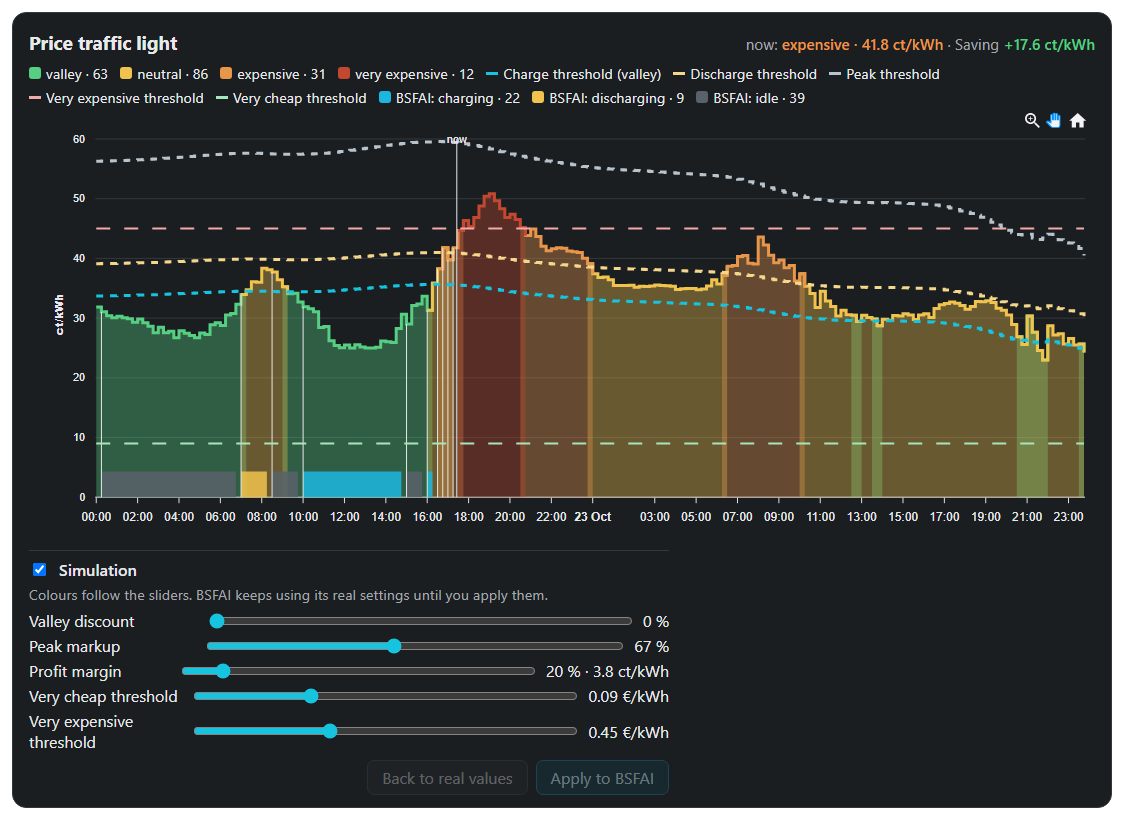
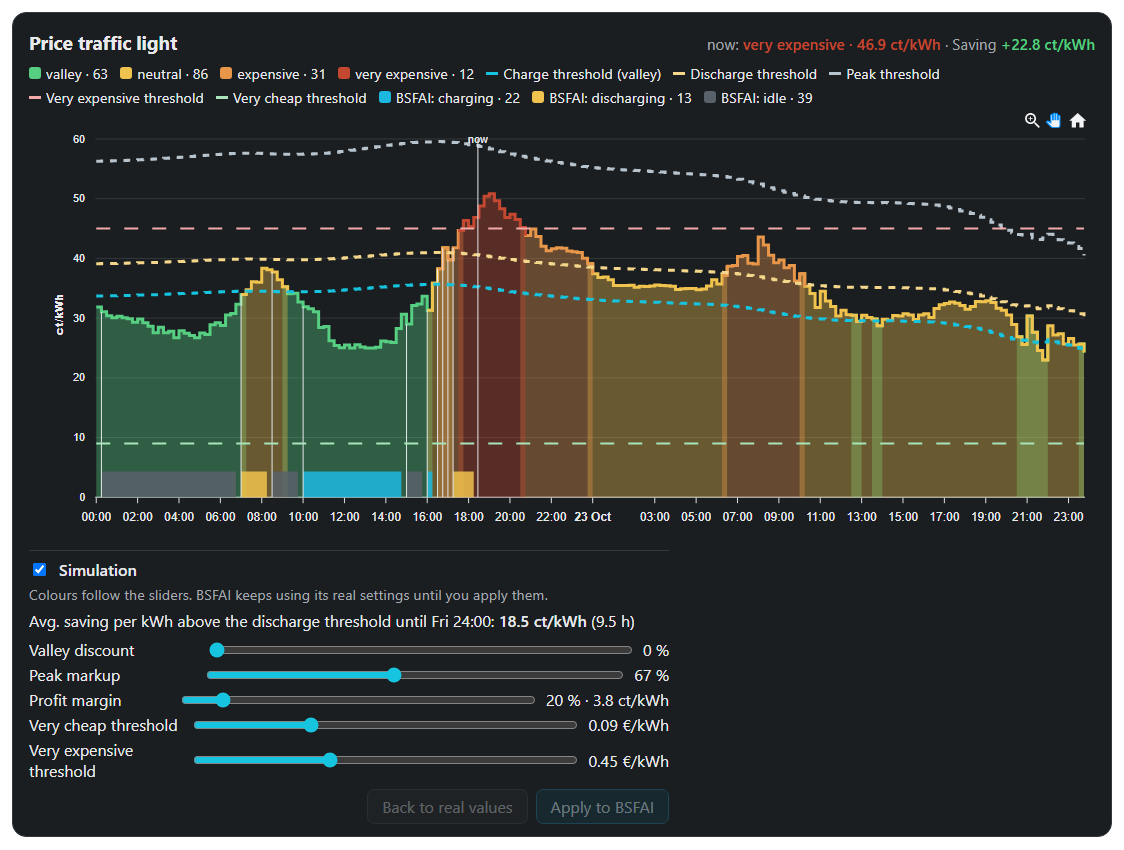
0.1.9: Ø Ersparnis je kWh im Simulator, README sachlicher
Im Simulator steht die Ø Ersparnis je kWh ueber der Entladeschwelle bis zum
Ende der Preisvorschau (mit Stunden), bei verstellten Schiebern auch mit den
Schieberwerten. README: Abschnitt dazu; die Erklaerung der Gewinnmarge ist
jetzt neutral formuliert (wie BSFAI sie anwendet, ohne Wertung des Namens).

diff --git a/custom_components/smartflow_preisampel/www/smartflow-preisampel-card.js b/custom_components/smartflow_preisampel/www/smartflow-preisampel-card.js
@@ -9,7 +9,7 @@
  * Simulator; ohne Simulation zeigt die Karte die fertig gerechnete Leiter.
  */
 
-const VERSION = "0.1.9-test";
+const VERSION = "0.1.9";
 const CARD = "smartflow-preisampel-card";
 const EDITOR = "smartflow-preisampel-card-editor";
 

diff --git a/README.md b/README.md
@@ -31,6 +31,7 @@ Zwei Stile, im Karten-Editor per Schalter umschaltbar:
 - **Schwellen** als Linien: Ladeschwelle (Tal), Entladeschwelle, Peak-Schwelle sowie die festen Sehr-billig- und Sehr-teuer-Schwellen
 - **Verlauf**: ein Balken darunter zeigt, was BSFAI tatsächlich getan hat (lädt · entlädt · bereit), der Tooltip zusätzlich den Ladestand
 - **Simulator** mit fünf Schiebern: Talpreis-Abschlag, Peakpreis-Aufschlag, Gewinnmarge, Sehr-billig- und Sehr-teuer-Schwelle.
+  Darüber die **Ø Ersparnis je kWh** über der Entladeschwelle – mit den echten und mit den Schieberwerten.
   Die Farben folgen sofort den Schiebern, BSFAI regelt währenddessen mit seinen echten Werten weiter.
   Erst **„In BSFAI übernehmen“** schreibt die geänderten Werte – nach einer Rückfrage – in die Regler von BSFAI.
 - **Ersparnis** in der Kopfzeile und im Tooltip, am Schieber „Gewinnmarge“ zusätzlich der Betrag in ct (siehe [Was bedeutet die Ersparnis?](#was-bedeutet-die-ersparnis))
@@ -113,8 +114,7 @@ Oben in der Kopfzeile und im Tooltip steht die **Ersparnis**, zum Beispiel „Er
 
 > **Ersparnis = Netzpreis − was die kWh aus dem Akku gekostet hat**
 
-Ein Akku für den Eigenverbrauch bringt keinen Gewinn – er macht deinen Strom billiger. Die Ersparnis zeigt, um wie
-viel eine kWh aus dem Akku günstiger ist als dieselbe kWh aus dem Netz.
+Sie zeigt, um wie viel eine kWh aus dem Akku günstiger ist als dieselbe kWh aus dem Netz.
 
 - **Positiv** (grün): Strom aus dem Akku ist billiger als Strom aus dem Netz – jede kWh spart diesen Betrag.
 - **Negativ** (rot): Der Netzstrom ist gerade billiger als der Strom im Akku – Entladen würde mehr kosten.
@@ -136,10 +136,22 @@ Bitte beachten: Die Ersparnis ist eine **Durchschnittsbetrachtung**. Der Ladepre
 Laufzeit, nicht der Preis der Energie, die gerade im Akku steckt. Der Wirkungsgrad ist eine Näherung – was der Akku
 ins Netz statt ins Haus abgibt, zählt BSFAI nicht als Entladung.
 
-### Der Regler „Gewinnmarge“ – eigentlich ein Mindestabstand
+### Ø Ersparnis je kWh im Simulator
+
+Im Simulator steht, wie viel eine kWh aus dem Akku im Schnitt spart, wenn BSFAI über der Entladeschwelle entlädt –
+gerechnet von jetzt bis zum Ende der Preisvorschau (so weit der Graph reicht), zum Beispiel:
+
+> Ø Ersparnis je kWh über der Entladeschwelle bis Fr 24:00: **18,6 ct/kWh** (10,0 h) → mit den Schieberwerten: **23,9 ct/kWh** (2,3 h)
+
+- Gemittelt wird die Ersparnis über alle Viertelstunden, in denen der Preis die Entladeschwelle erreicht.
+- In Klammern steht, wie viele Stunden das sind. Eine höhere Schwelle spart je kWh mehr, betrifft aber weniger
+  Stunden – ob der Akku dafür reicht oder übrig bleibt, lässt sich daran abschätzen.
+- Sobald ein Schieber verstellt ist, steht der Wert mit den Schieberwerten daneben.
+
+### Der Regler „Gewinnmarge“
 
 Am Schieber „Gewinnmarge“ zeigt die Preisampel neben den Prozent auch den Betrag in ct, der beim Verschieben
-mitläuft (z. B. „20 % · 3,8 ct/kWh“). Trotz des Namens geht es nicht um Gewinn, sondern um einen **Mindestabstand**:
+mitläuft (z. B. „20 % · 3,8 ct/kWh“). BSFAI nutzt die Gewinnmarge an zwei Stellen:
 
 - **Entladen:** BSFAI hält preisbasiertes Entladen erst ab **Ø Ladepreis + Gewinnmarge** für sinnvoll. Die Prozent
   beziehen sich auf den Ø Ladepreis, **nicht** auf den aktuellen Strompreis: 20 % von 18,9 ct = **3,8 ct** – das ist
@@ -147,9 +159,9 @@ mitläuft (z. B. „20 % · 3,8 ct/kWh“). Trotz des Namens geht es nicht um Ge
   bewegst oder – langsam – wenn sich der Ø Ladepreis durch neue Ladungen verschiebt.
 - **Laden aus dem Netz im Tal:** BSFAI lädt nur nach, wenn danach noch eine Preisspitze kommt, die mindestens
   **Preis jetzt + Gewinnmarge** erreicht. Hier beziehen sich die Prozent auf den Preis der Viertelstunde.
-- BSFAI rechnet dabei **ohne** Ladeverluste – der Mindestabstand soll sie mit abdecken. Damit er die echten Kosten
-  erreicht, braucht es mindestens **1 ÷ Wirkungsgrad − 1**, bei 78 % also rund **28 %**.
-- Der Mindestabstand geht nur zu 30 % in die Entladeschwelle ein, die übrigen 70 % kommen vom Markt (82 % der
+- Ladeverluste rechnet BSFAI an dieser Stelle nicht gesondert ein. Wer sie über die Gewinnmarge mit abdecken möchte,
+  braucht mindestens **1 ÷ Wirkungsgrad − 1**, bei 78 % also rund **28 %**.
+- Die Gewinnmarge geht zu 30 % in die Entladeschwelle ein, die übrigen 70 % kommen vom Markt (82 % der
   Peak-Schwelle). Bei günstig geladenem Akku verschiebt der Regler die Entladeschwelle deshalb nur wenig; wichtig
   wird er an Tagen, an denen die Strompreise nah an den Akku-Kosten liegen.
 

diff --git a/README.en.md b/README.en.md
@@ -31,6 +31,7 @@ Two styles, switchable with a toggle in the card editor:
   very-cheap and very-expensive thresholds
 - **History**: a bar below the chart shows what BSFAI actually did (charging · discharging · idle), the tooltip adds the state of charge
 - **Simulator** with five sliders: valley discount, peak markup, profit margin, very-cheap and very-expensive threshold.
+  Above them the **average saving per kWh** above the discharge threshold – with the real and the slider values.
   The colours follow the sliders instantly while BSFAI keeps running on its real settings.
   Only **“Apply to BSFAI”** writes the changed values – after asking you – to BSFAI's settings.
 - **Saving** in the header and the tooltip, the “profit margin” slider also shows its amount in ct (see [What does the saving mean?](#what-does-the-saving-mean))
@@ -115,8 +116,7 @@ The card header and the tooltip show the **saving**, for example “Saving +17.6
 
 > **Saving = grid price − what one kWh from the battery has cost**
 
-A battery for self-consumption does not make a profit – it makes your electricity cheaper. The saving shows how much
-cheaper one kWh from the battery is than the same kWh from the grid.
+It shows how much cheaper one kWh from the battery is than the same kWh from the grid.
 
 - **Positive** (green): energy from the battery is cheaper than energy from the grid – every kWh saves this amount.
 - **Negative** (red): grid energy is currently cheaper than the energy in the battery – discharging would cost more.
@@ -138,10 +138,22 @@ Please note: the saving is an **average view**. The charge price is averaged ove
 the energy currently in the battery. The efficiency is an approximation – energy the battery exports to the grid
 instead of the house is not counted as discharge by BSFAI.
 
-### The “profit margin” setting – really a minimum gap
+### Average saving per kWh in the simulator
+
+The simulator shows how much one kWh from the battery saves on average when BSFAI discharges above the discharge
+threshold – from now until the end of the price forecast (as far as the chart goes), for example:
+
+> Avg. saving per kWh above the discharge threshold until Fri 24:00: **18.6 ct/kWh** (10.0 h) → with the slider values: **23.9 ct/kWh** (2.3 h)
+
+- The saving is averaged over every quarter hour in which the price reaches the discharge threshold.
+- The brackets show how many hours that is. A higher threshold saves more per kWh but covers fewer hours – this
+  helps to judge whether the battery is enough for them or energy is left over.
+- As soon as a slider is moved, the value with the slider settings appears next to it.
+
+### The “profit margin” setting
 
 Next to the “profit margin” slider the price traffic light shows the amount in ct as well, following the slider as
-you move it (e.g. “20 % · 3.8 ct/kWh”). Despite its name it is not about profit but a **minimum gap**:
+you move it (e.g. “20 % · 3.8 ct/kWh”). BSFAI uses the profit margin in two places:
 
 - **Discharging:** BSFAI only considers price-based discharging worthwhile from **average charge price + profit
   margin**. The percentage refers to the average charge price, **not** the current electricity price: 20 % of
@@ -149,9 +161,9 @@ you move it (e.g. “20 % · 3.8 ct/kWh”). Despite its name it is not about pr
   move the slider or – slowly – when new charging shifts the average charge price.
 - **Grid charging at valley prices:** BSFAI only recharges if a later price peak reaches at least **current price +
   profit margin**. Here the percentage refers to the price of that quarter hour.
-- BSFAI does this **without** charging losses – the minimum gap is meant to cover them. To reach the real cost you need
-  at least **1 ÷ efficiency − 1**, i.e. about **28 %** at 78 % efficiency.
-- The minimum gap makes up only 30 % of the discharge threshold, the other 70 % come from the market (82 % of the peak
+- BSFAI does not add charging losses separately here. If you want the profit margin to cover them as well, you need at
+  least **1 ÷ efficiency − 1**, i.e. about **28 %** at 78 % efficiency.
+- The profit margin makes up 30 % of the discharge threshold, the other 70 % come from the market (82 % of the peak
   threshold). With a cheaply charged battery the setting therefore moves the discharge threshold only a little; it
   matters on days when electricity prices are close to the battery cost.
 
